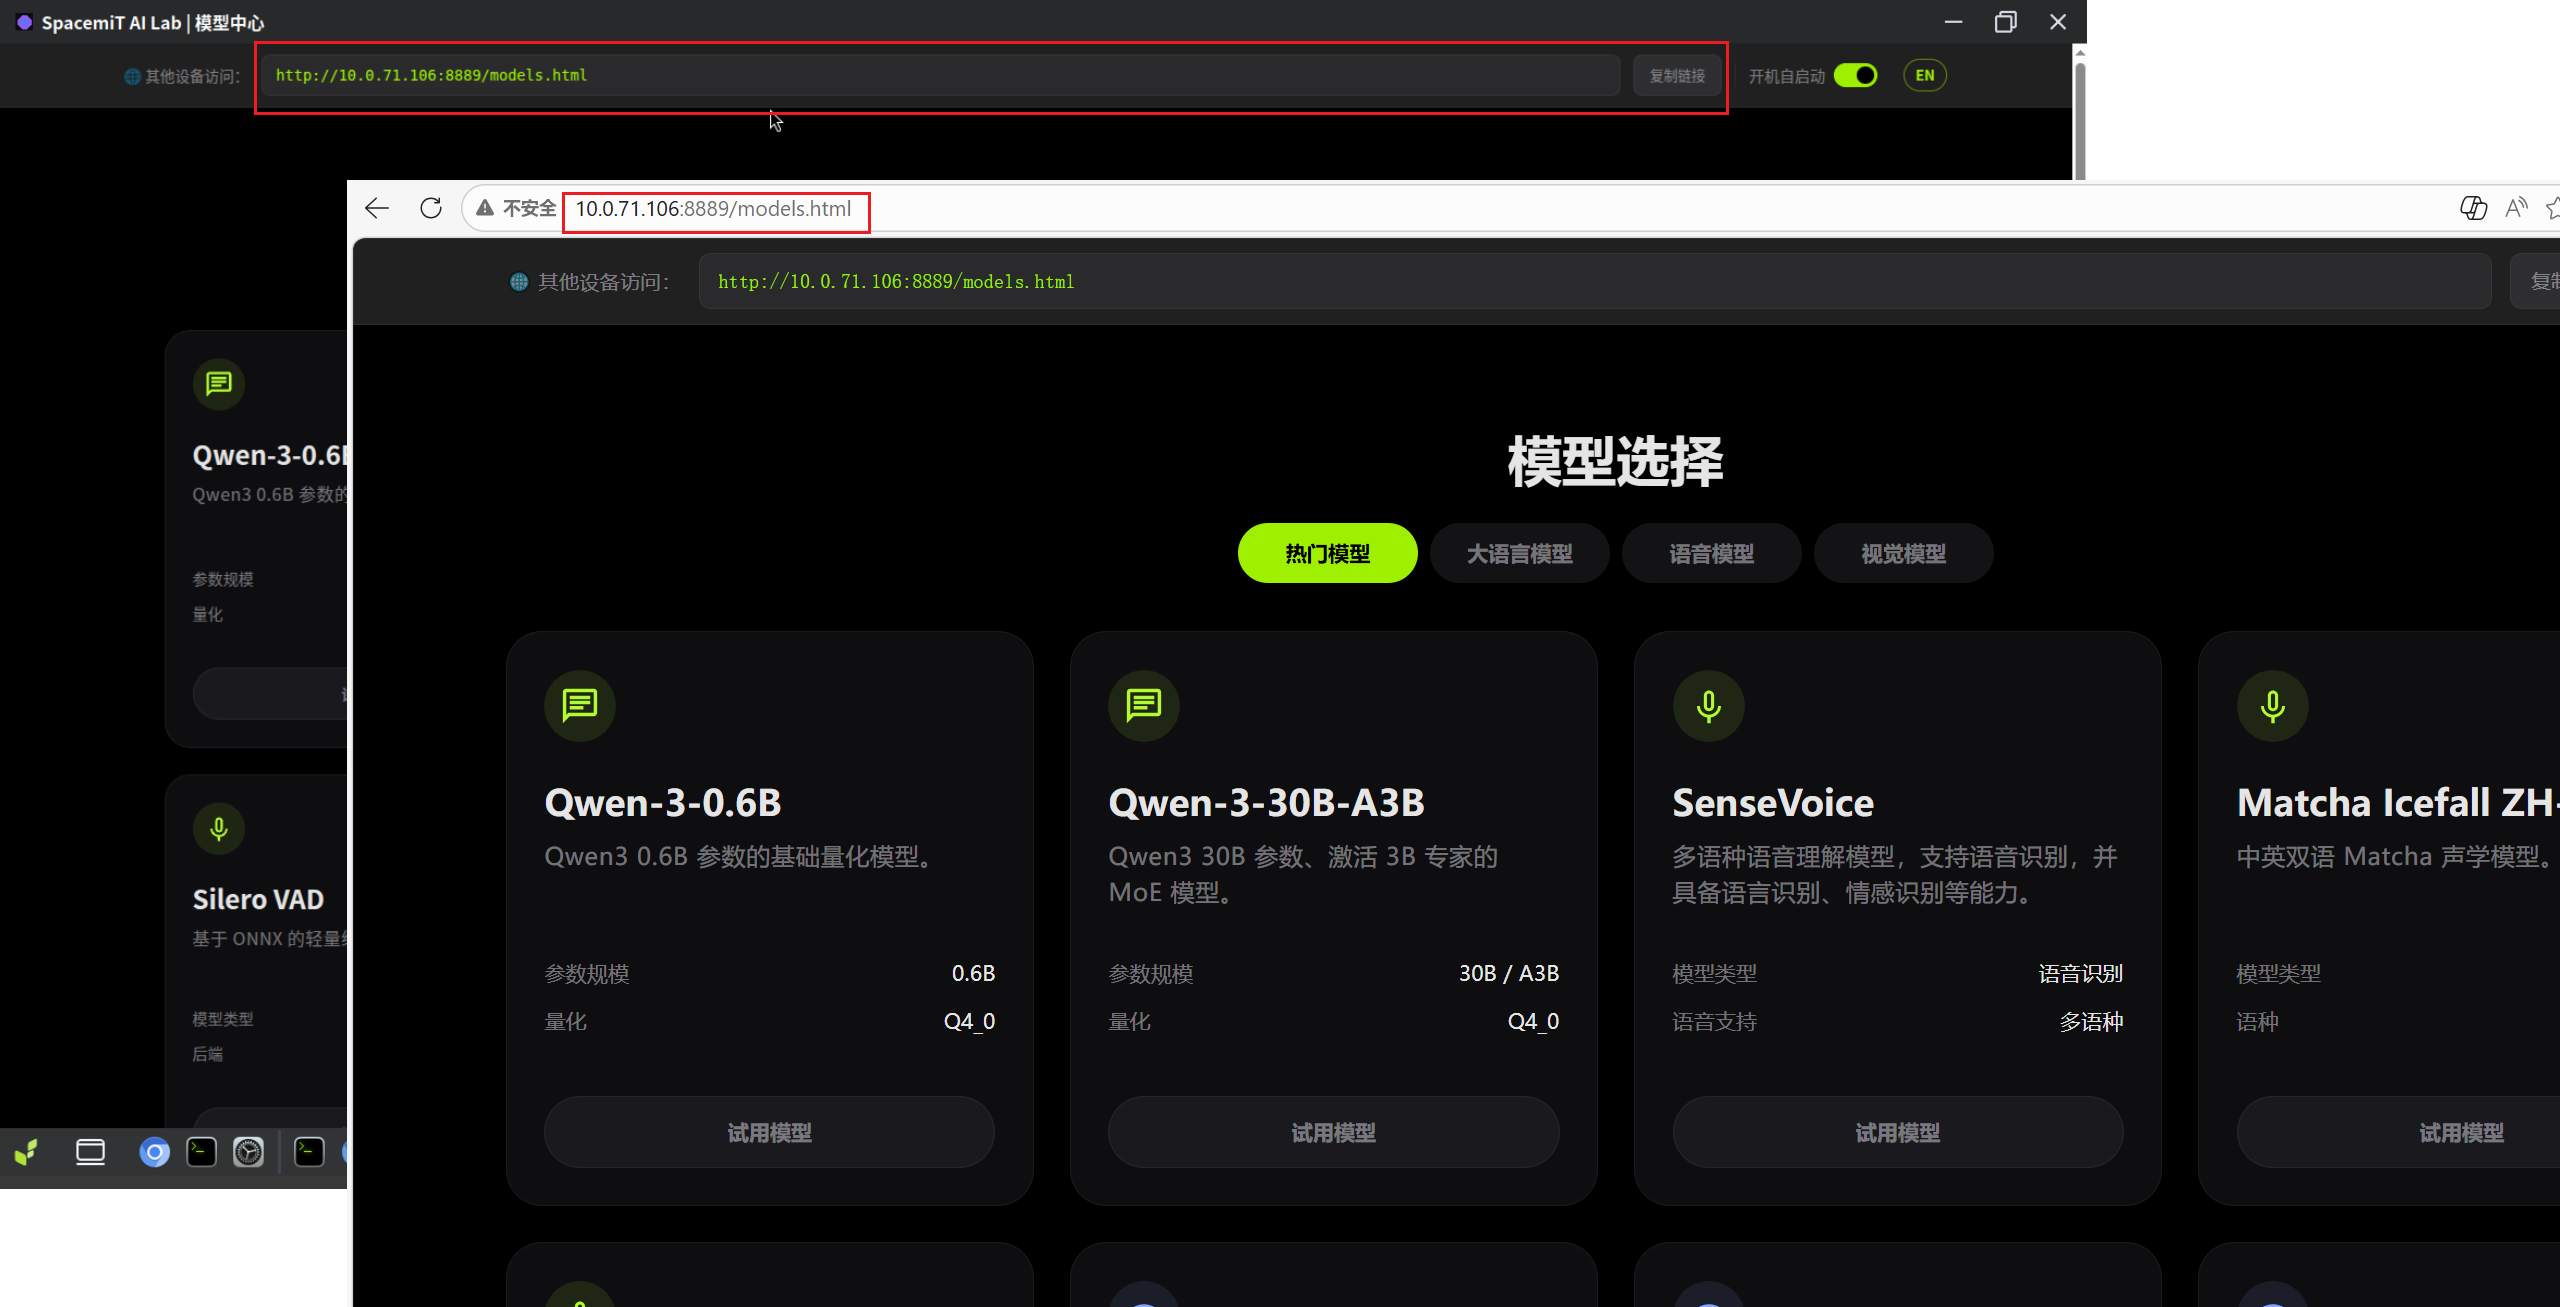
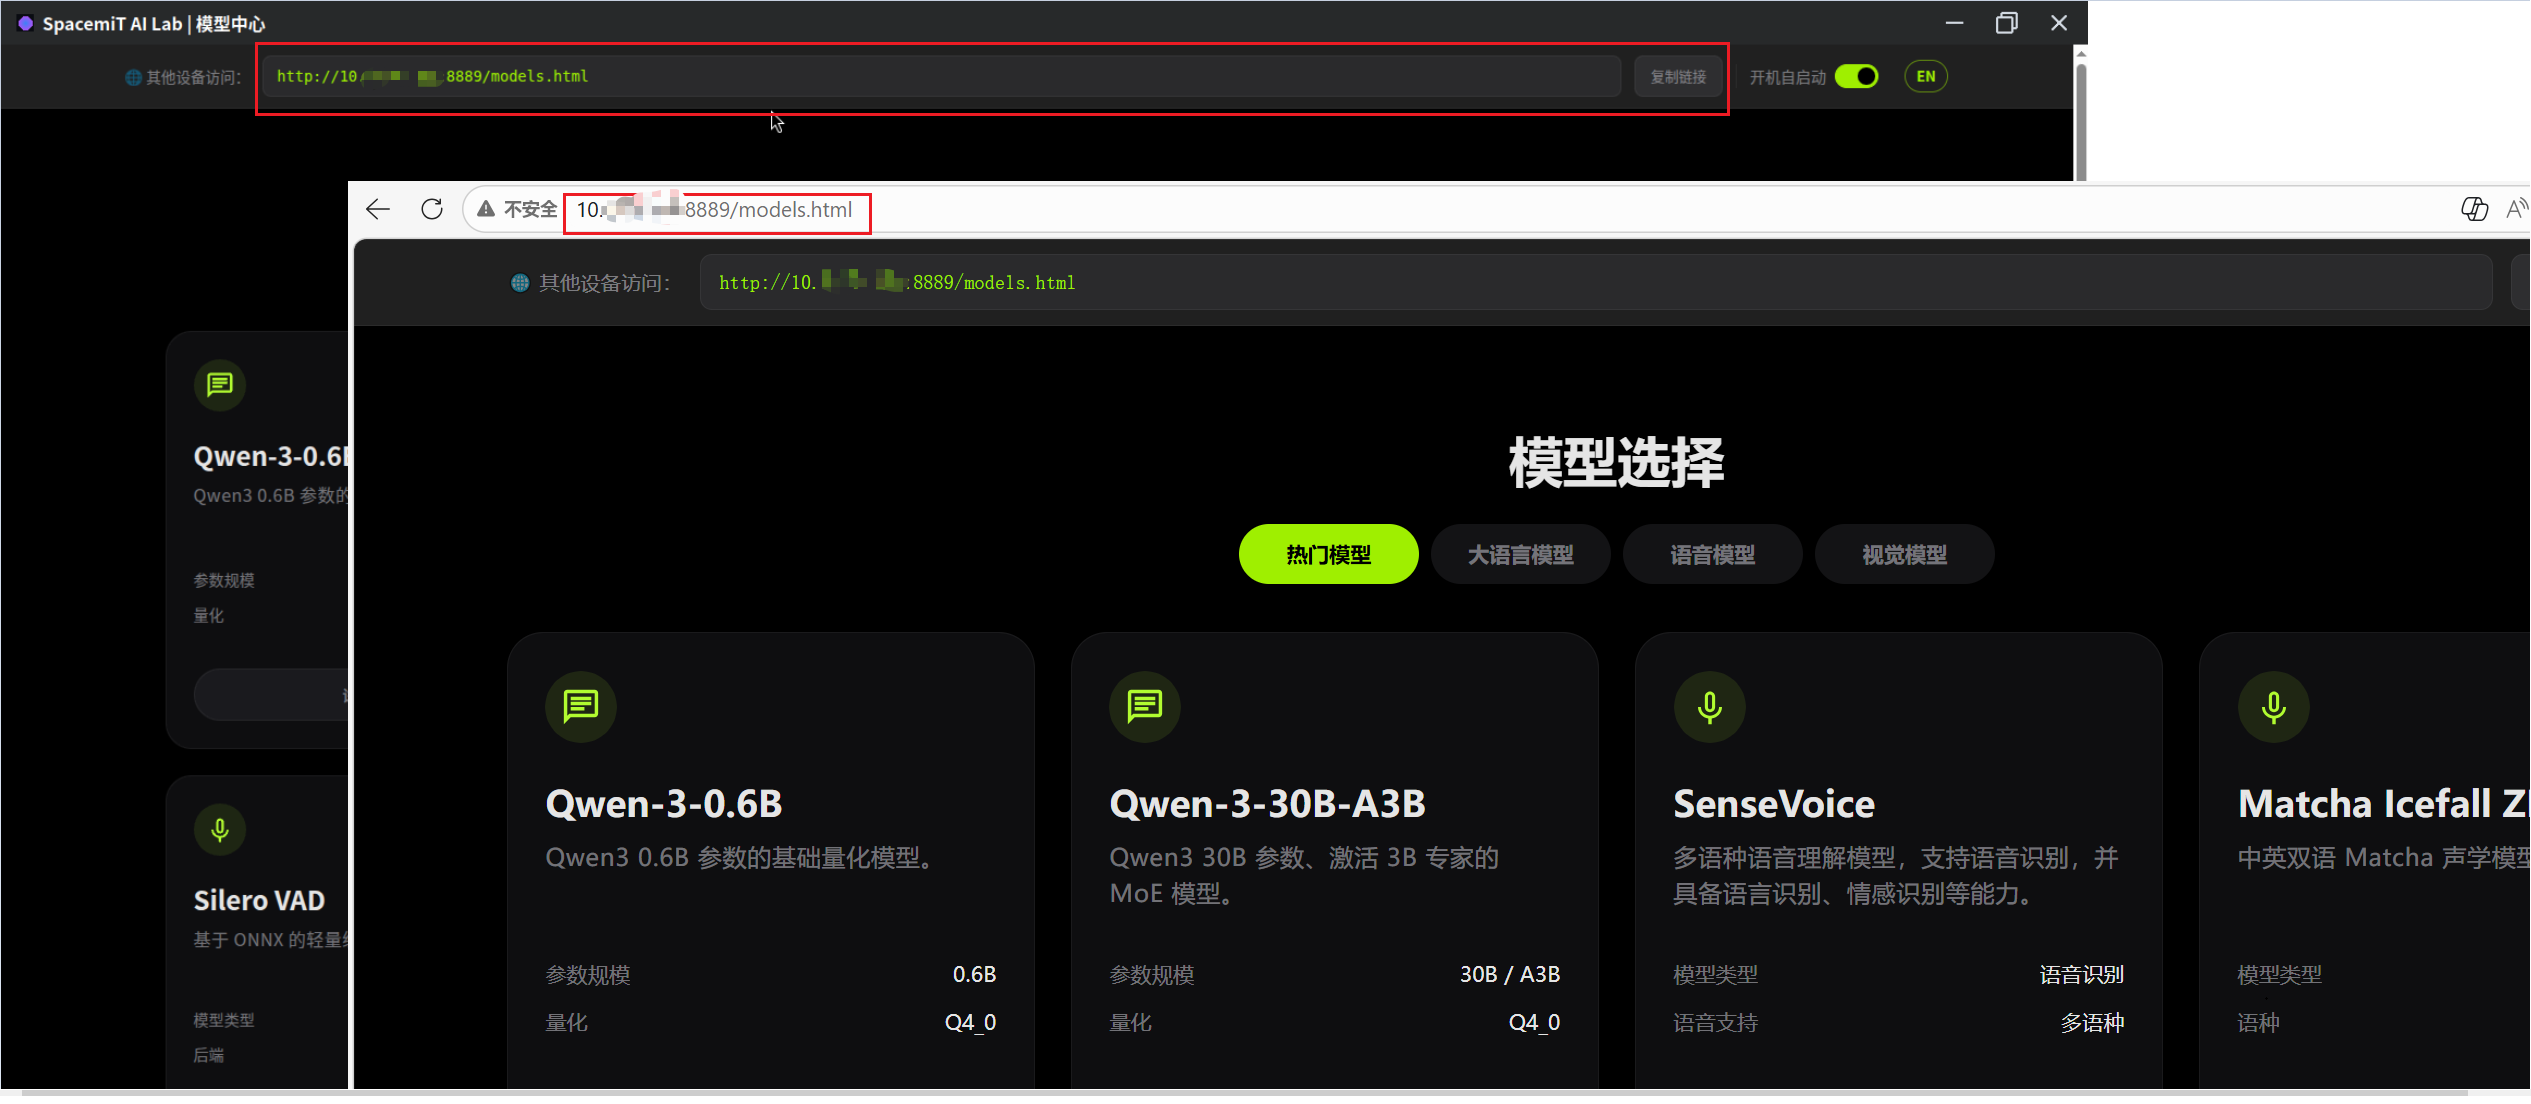
Update SpacemiT AI Lab doc

diff --git a/zh/solutions/aicomputer_solution/ailab.md b/zh/solutions/aicomputer_solution/ailab.md
@@ -27,13 +27,9 @@ K3 设备本地同样内置 AI Lab 桌面应用，支持下载模型后在本地
 
 ## 技术架构
 
-### 业务架构图
+### 系统架构图
 
-![业务架构图](../static/ailab-framework.png)
-
-### 技术架构图
-
-![技术架构图](../static/ailab-tech.png)
+![系统架构图](../static/ailab-tech.png)
 
 ### 应用技术栈
 
@@ -50,23 +46,23 @@ K3 设备本地同样内置 AI Lab 桌面应用，支持下载模型后在本地
 
 ### 工作流程
 
-```
-1. 云上体验流程：Bianbu Cloud → 官网入口 → AI Lab 主页 → 在线体验模型推理 → 查看实时性能数据
-                                            ↓
-                                        查看官方性能数据
+1. **云上体验流程**
 
-2. 本地体验流程：启动 AI Lab 本地应用 → 本地 APP 页面 → 下载模型 → 试用模型 → 体验模型推理 → 查看实时性能数据
-                                            ↓
-                                        查看官方性能数据
+   Bianbu Cloud → 官网入口 → AI Lab 主页（↓ 也可直接查看官方性能数据）→ 在线体验模型推理 → 查看实时性能数据
 
-3. 局域网分享流程：启动应用 → 复制分享链接 → 其他设备浏览器访问
-```
+2. **本地体验流程**
+
+   启动 AI Lab 本地应用 → 本地 APP 页面（↓ 也可直接查看官方性能数据）→ 下载模型 → 试用模型 → 体验模型推理 → 查看实时性能数据
+
+3. **局域网分享流程**
+
+   启动应用 → 复制分享链接 → 其他设备浏览器访问
 
 ## 🚀 安装（K3 本地应用）
 
 ### 系统要求
 
-- **操作系统**：Bianbu 4.0 rc4 之后的 LXQt 或 GNOME
+- **操作系统**：Bianbu 4.0 rc4 之后的 LXQT 或 GNOME
 - **硬件平台**：SpacemiT K3 RISC-V 设备
 - **内存要求**：建议 8 GB 及以上
 - **存储空间**：至少 10 GB 可用空间（用于模型下载）
@@ -104,9 +100,9 @@ curl -s localhost:18790/healthz
 
 ### 2) K3 本地应用启动
 
-**方式一：从应用菜单启动**
+**方式一：从桌面快捷方式或者应用菜单启动**
 
-点击系统菜单，搜索 **SpacemiT AI Lab** 或 **AI Lab**，点击启动。
+从桌面SpacemiT AI Lab图标，或者系统菜单，搜索 **SpacemiT AI Lab** 或 **AI Lab**，点击启动。
 
 **方式二：从终端启动**
 
@@ -248,7 +244,15 @@ curl -s localhost:18790/healthz
 在主页下方查看所有模型在 K3 上的性能指标：
 
 - 点击分类标签筛选视觉 / LLM / 语音模型
-- 指标包含PP128(token/s)、TG128(token/s)、音频时长、处理时间、RTF、输入形状、帧率(FPS)、量化类型 等
+- 指标说明：
+
+  | 指标            | 全称              | 含义                                                                 |
+  | --------------- | ----------------- | -------------------------------------------------------------------- |
+  | PP128 (token/s) | Prompt Processing | 模型处理输入提示词的速度，以首批 128 个 token 为基准，数值越高越好   |
+  | TG128 (token/s) | Token Generation  | 模型逐步生成输出文本的速度，以后续 128 个 token 为基准，数值越高越好 |
+  | RTF             | Real-Time Factor  | 实时率，处理时长与音频时长之比，RTF < 1 表示可实时处理，数值越低越好 |
+  | FPS             | Frames Per Second | 视觉模型每秒处理的图像帧数，数值越高越好                             |
+  | 量化类型        | Quantization      | 模型压缩精度，如 Q4_0、Q8_0、INT8、FP16，精度越低体积越小、速度越快  |
 
 ![模型性能看板](../static/ailab-9.png)
 
@@ -271,7 +275,7 @@ curl -s localhost:18790/healthz
 
 应用启动后自动开启局域网分享：
 
-1. 查看顶部显示的访问地址（如 `http://192.168.1.100:8889`）
+1. 查看顶部显示的访问地址（如 `http://192.168.0.0:8889`）
 2. 同一局域网内的其他设备浏览器访问该地址，无需安装应用
 
 ![局域网分享](../static/ailab-11.png)